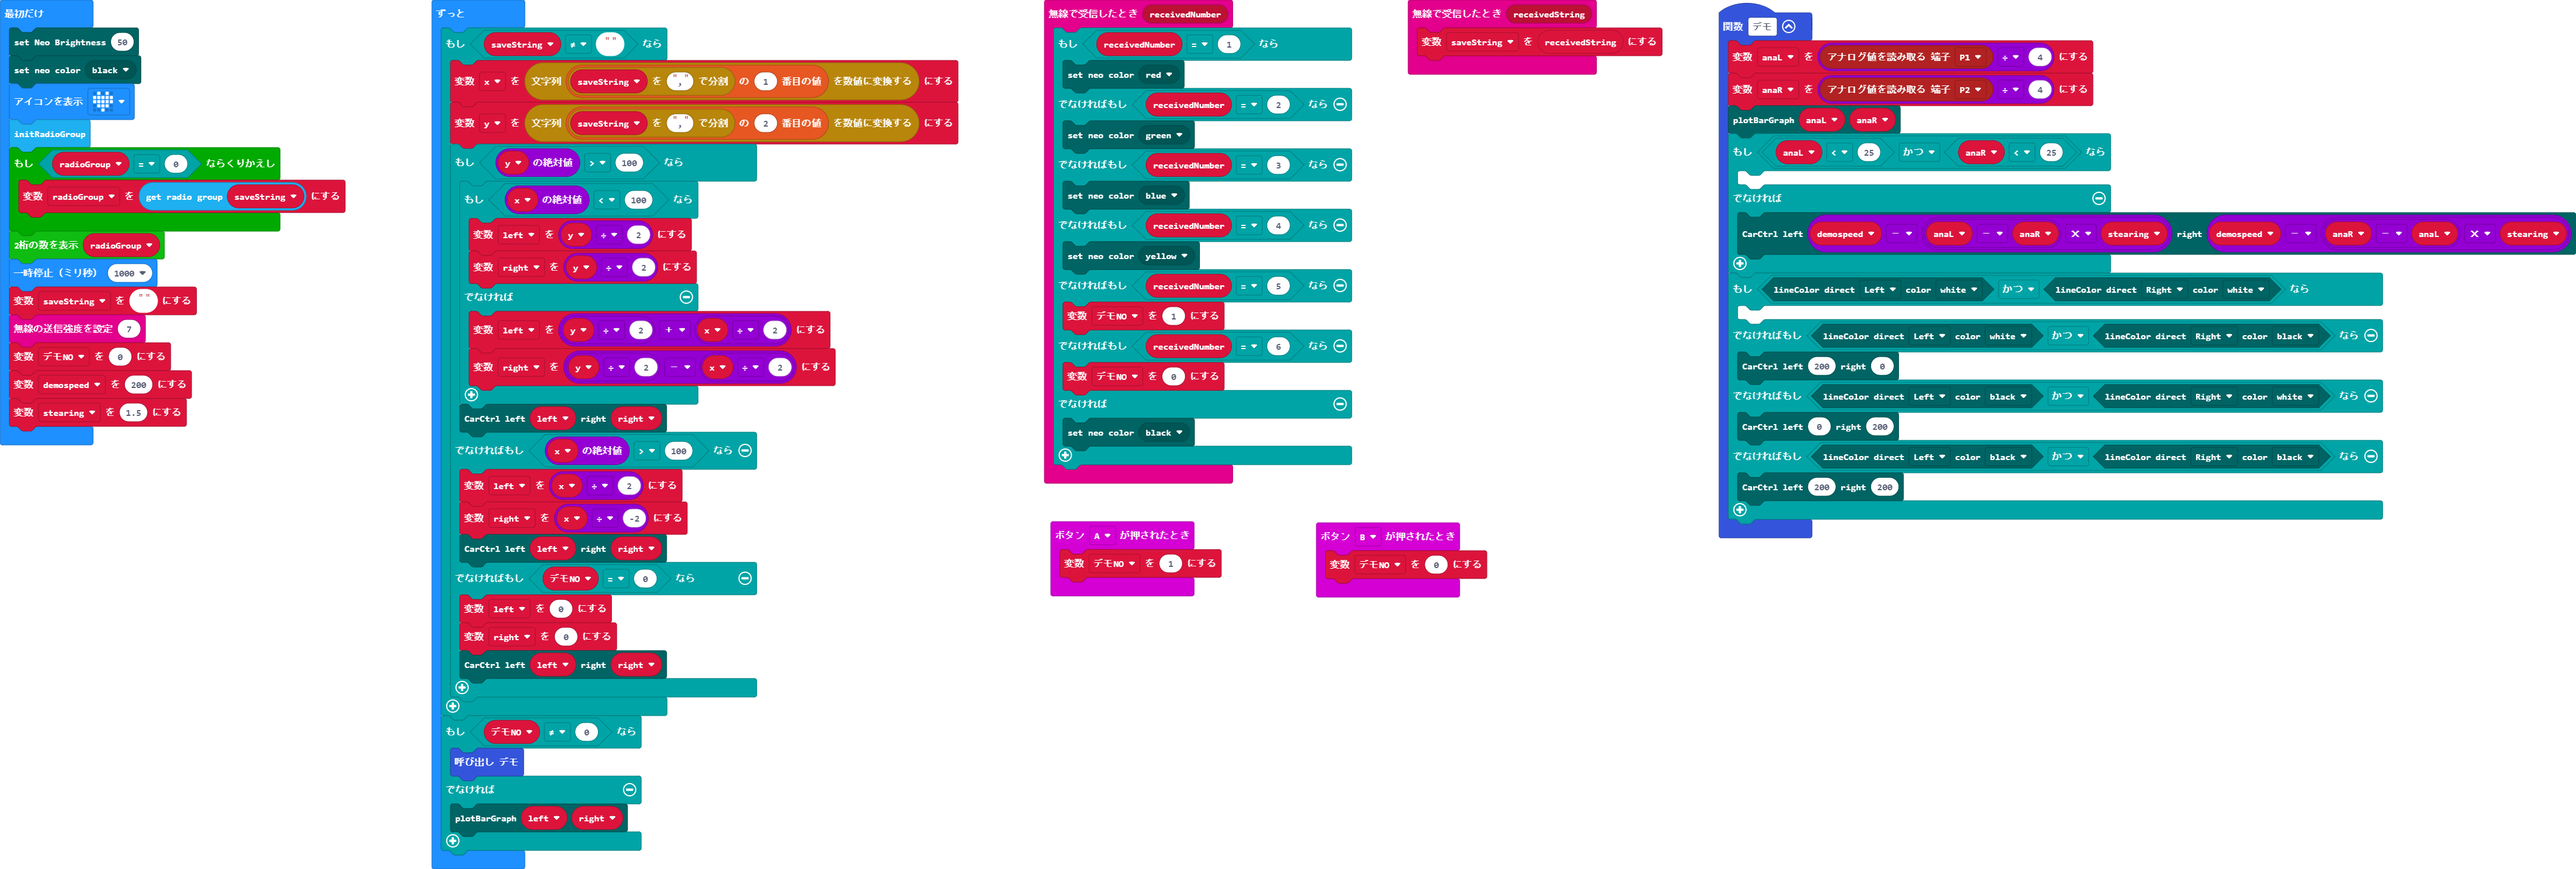
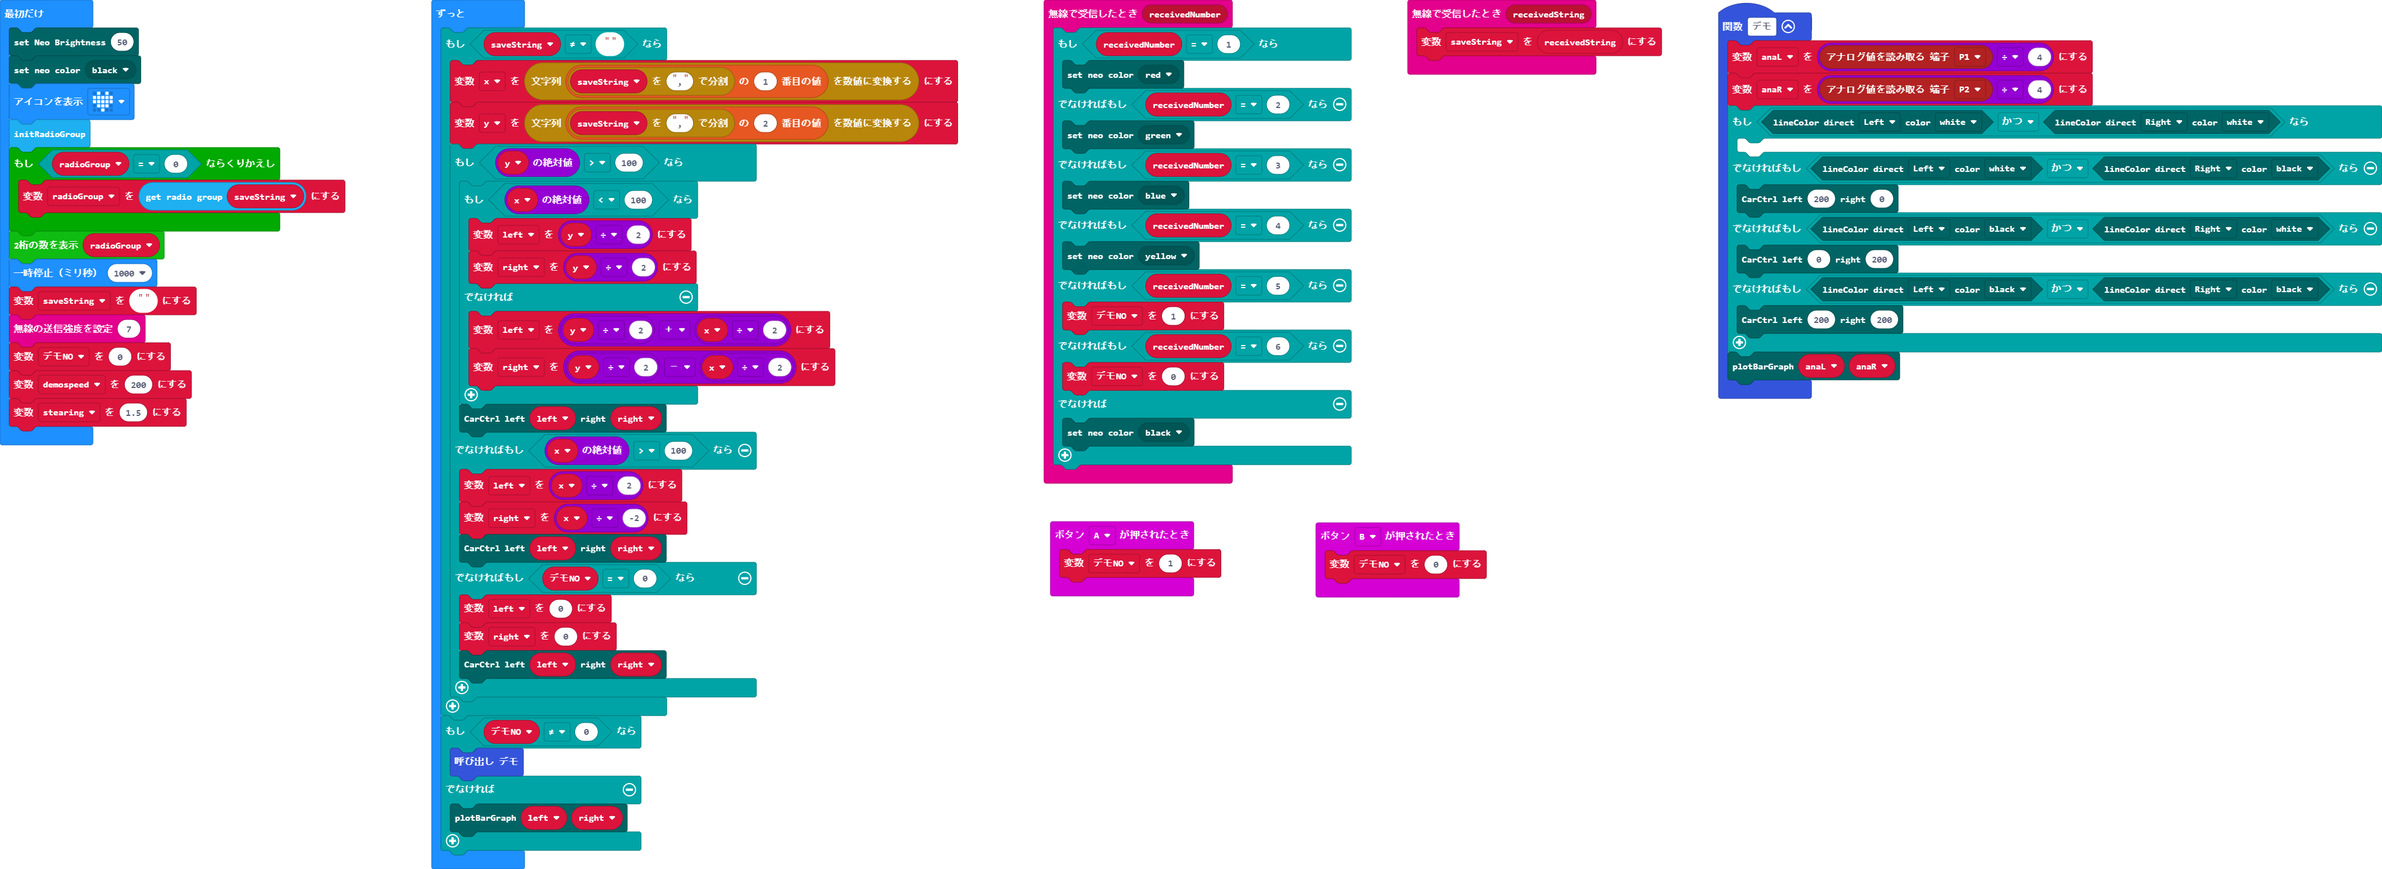
更新 main.blocks, main.ts

Changed region(s): [[0.0, 0.0, 1.0, 1.0], [0.0, 0.2767, 0.0937, 0.492]]

diff --git a/main.ts b/main.ts
@@ -1,12 +1,6 @@
 function デモ () {
     anaL = pins.analogReadPin(AnalogPin.P1) / 4
     anaR = pins.analogReadPin(AnalogPin.P2) / 4
-    porocar.plotBarGraph(anaL, anaR)
-    if (anaL < 25 && anaR < 25) {
-    	
-    } else {
-        porocar.carCtrl(demospeed - (anaL - anaR) * stearing, demospeed - (anaR - anaL) * stearing)
-    }
     if (porocar.getLineColor(Position.Left, lineColor.White) && porocar.getLineColor(Position.Right, lineColor.White)) {
     	
     } else if (porocar.getLineColor(Position.Left, lineColor.White) && porocar.getLineColor(Position.Right, lineColor.Black)) {
@@ -16,6 +10,7 @@ function デモ () {
     } else if (porocar.getLineColor(Position.Left, lineColor.Black) && porocar.getLineColor(Position.Right, lineColor.Black)) {
         porocar.carCtrl(200, 200)
     }
+    porocar.plotBarGraph(anaL, anaR)
 }
 radio.onReceivedNumber(function (receivedNumber) {
     if (receivedNumber == 1) {
@@ -49,8 +44,6 @@ let y = 0
 let x = 0
 let anaR = 0
 let anaL = 0
-let stearing = 0
-let demospeed = 0
 let デモNO = 0
 let saveString = ""
 let radioGroup = 0
@@ -66,8 +59,8 @@ basic.pause(1000)
 saveString = ""
 radio.setTransmitPower(7)
 デモNO = 0
-demospeed = 200
-stearing = 1.5
+let demospeed = 200
+let stearing = 1.5
 basic.forever(function () {
     if (saveString != "") {
         x = parseFloat(saveString.split(",")[1])
